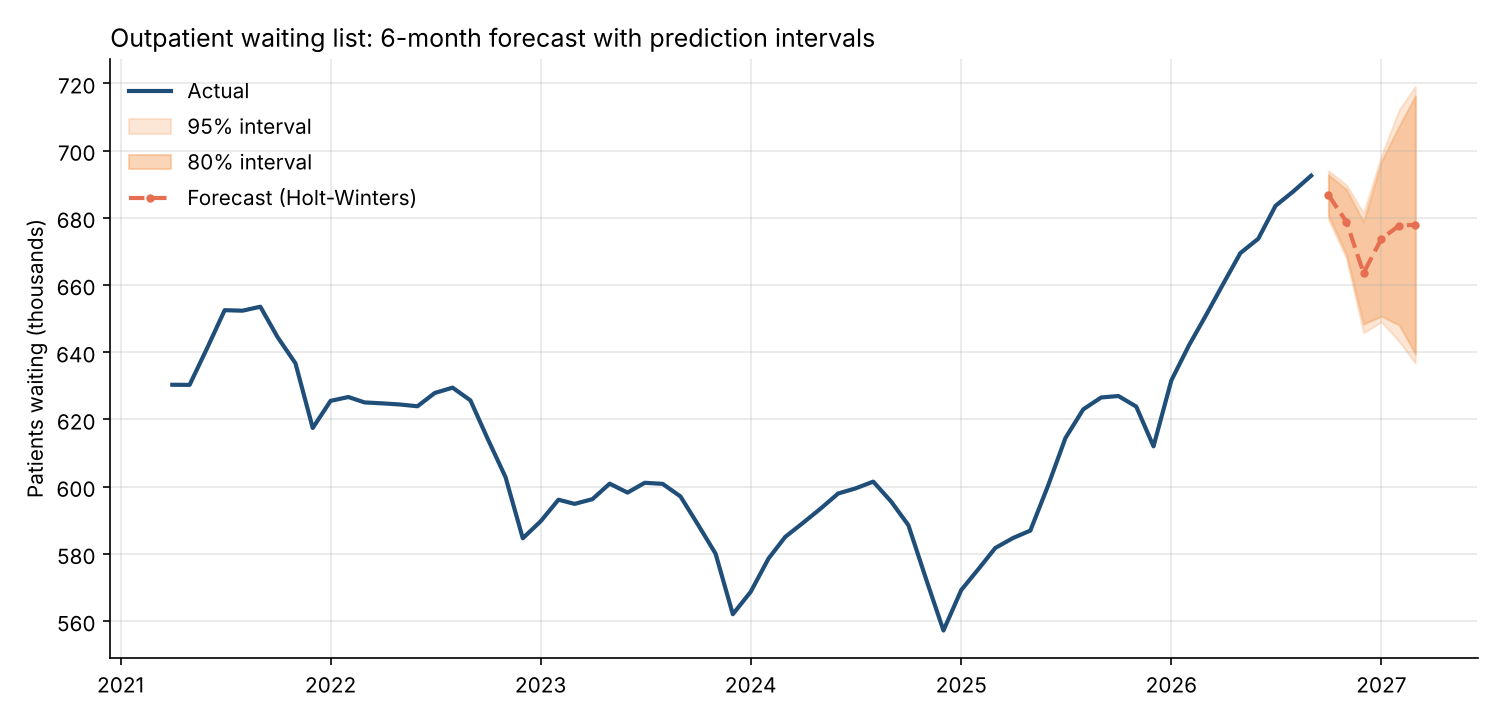
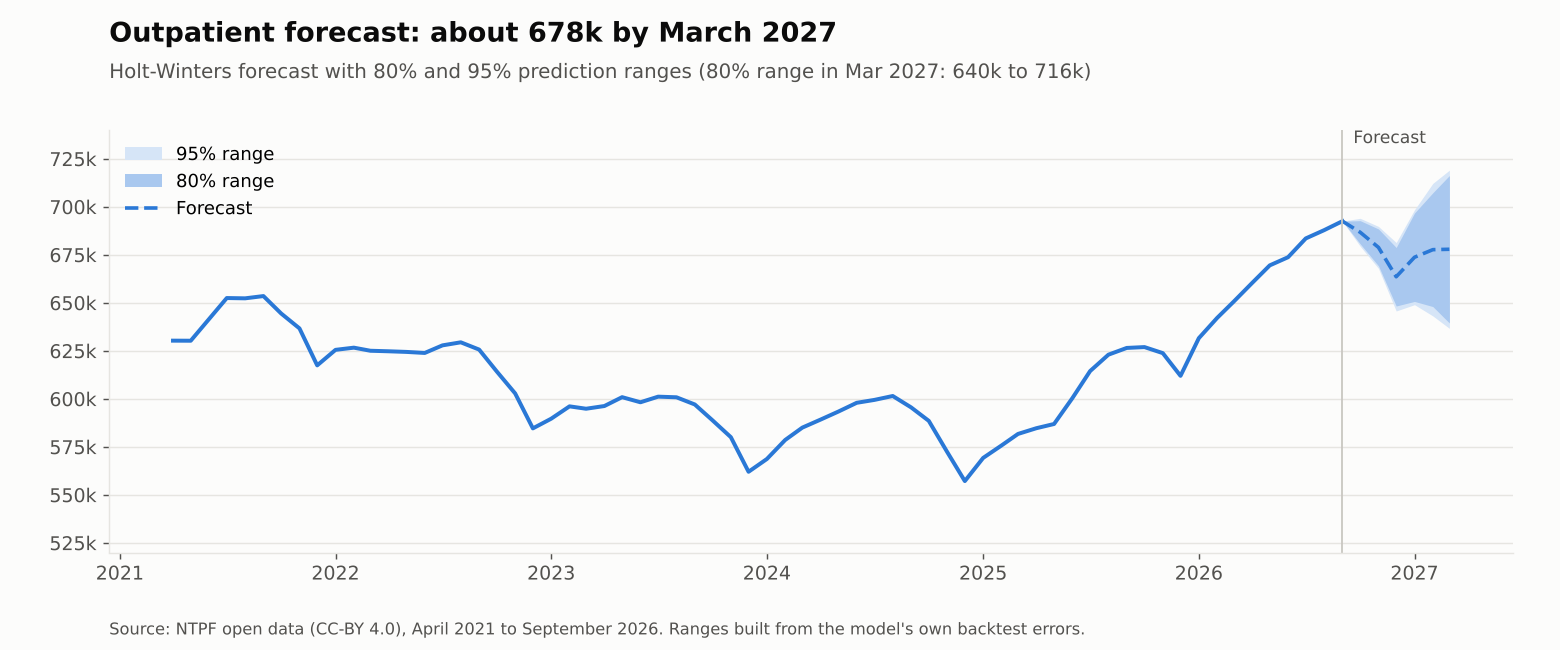
Restyle all README charts in one consistent style

diff --git a/src/charts.py b/src/charts.py
@@ -1,0 +1,130 @@
+"""Draws every chart used in the README, in one consistent style.
+
+Reads the summary tables in data/ and writes images/01-08 (except 04, the
+superseded Random Forest forecast). Run from the repository root, after
+src/forecast_and_targets.py:   python src/charts.py
+"""
+import pandas as pd
+import matplotlib.ticker as mtick
+
+from chart_style import (BLUE, BLUE_80, BLUE_95, GREY, GREY_LIGHT, INK, INK2, TARGET,
+                         new_figure, tidy, year_axis, save)
+
+nat = pd.read_csv("data/national_monthly.csv", parse_dates=["month"])
+tgt = pd.read_csv("data/target_benchmark.csv", parse_dates=["month"])
+fc = pd.read_csv("data/forecast_with_intervals.csv", parse_dates=["month"])
+mc = pd.read_csv("data/model_comparison.csv")
+spec = pd.read_csv("data/op_specialty_sep2026.csv")
+
+thousands = mtick.FuncFormatter(lambda v, _: f"{v:,.0f}k")
+last = nat.iloc[-1]
+
+# 01 Outpatient trend
+fig, ax = new_figure(f"The outpatient list is at a 5-year high: {last.op_total:,.0f}",
+                     "Patients waiting for a first outpatient appointment, April 2021 to September 2026")
+tidy(ax)
+ax.plot(nat.month, nat.op_total / 1000, color=BLUE, lw=2.2)
+low = nat.loc[nat.op_total.idxmin()]
+for row, text, dy, va in [(low, f"Low: {low.op_total:,.0f} ({low.month:%b %Y})", -14, "top"),
+                          (last, f"{last.op_total:,.0f} ({last.month:%b %Y})", 10, "bottom")]:
+    ax.scatter(row.month, row.op_total / 1000, color=BLUE, s=40, zorder=3, edgecolor="white", linewidth=1.5)
+    ax.annotate(text, (row.month, row.op_total / 1000), xytext=(0, dy), textcoords="offset points",
+                ha="center" if row is low else "right", va=va, fontsize=10, color=INK, fontweight="bold")
+ax.set_ylim(520, 720); ax.yaxis.set_major_formatter(thousands); year_axis(ax)
+save(fig, "images/01_outpatient_trend.png")
+
+# 02 Long-wait share
+op_share = (nat.op_12_18 + nat.op_18_plus) / nat.op_total * 100
+ip_share = (nat.ipdc_12_18 + nat.ipdc_18_plus) / nat.ipdc_total * 100
+fig, ax = new_figure(f"The share waiting over 12 months fell from {op_share.iloc[0]:.0f}% to {op_share.iloc[-1]:.0f}%",
+                     "% of patients waiting more than 12 months")
+tidy(ax)
+ax.plot(nat.month, op_share, color=BLUE, lw=2.2)
+ax.plot(nat.month, ip_share, color=GREY, lw=2)
+ax.text(nat.month.iloc[2], op_share.iloc[2] + 1.5, "Outpatient", color=BLUE, fontsize=10.5, fontweight="bold")
+ax.text(nat.month.iloc[2], ip_share.iloc[2] + 2.5, "Inpatient / day case", color=GREY, fontsize=10.5, fontweight="bold")
+ax.set_ylim(0, 50); ax.yaxis.set_major_formatter(mtick.PercentFormatter(decimals=0)); year_axis(ax)
+save(fig, "images/02_long_wait_share.png")
+
+# 03 Top specialties
+top = spec.head(15).iloc[::-1]
+fig, ax = new_figure("Orthopaedics has the longest list; Dermatology the most long waiters",
+                     "Top 15 outpatient specialties by patients waiting, September 2026", height=6.5)
+tidy(ax, grid_axis="x")
+ax.barh(top.specialty, top.total_sep2026 / 1000, color=GREY_LIGHT, height=0.68, label="Under 12 months")
+ax.barh(top.specialty, top.over_12m_sep2026 / 1000, color=BLUE, height=0.68, label="Over 12 months")
+for y, r in enumerate(top.itertuples()):
+    ax.text(r.total_sep2026 / 1000 + 0.8, y, f"{r.total_sep2026:,.0f}", va="center", fontsize=9.5, color=INK2)
+ax.set_xlim(0, 95); ax.xaxis.set_major_formatter(thousands)
+ax.legend(loc="lower right", fontsize=10)
+fig.subplots_adjust(left=0.2)
+save(fig, "images/03_top_specialties.png")
+
+
+# 05 / 06 Forecasts with intervals
+def forecast_chart(key, label, hist_col, path, ylim):
+    f = fc[fc.list == label]
+    hist = nat[["month", hist_col]]
+    end = f.iloc[-1]
+    fig, ax = new_figure(f"{label} forecast: about {end.forecast / 1000:,.0f}k by {end.month:%B %Y}",
+                         f"Holt-Winters forecast with 80% and 95% prediction ranges "
+                         f"(80% range in {end.month:%b %Y}: {end.lower_80 / 1000:,.0f}k to {end.upper_80 / 1000:,.0f}k)")
+    tidy(ax)
+    ax.plot(hist.month, hist[hist_col] / 1000, color=BLUE, lw=2.2)
+    xs = pd.concat([hist.month.tail(1), f.month])
+    edge = hist[hist_col].iloc[-1] / 1000
+    ax.fill_between(xs, [edge] + list(f.lower_95 / 1000), [edge] + list(f.upper_95 / 1000), color=BLUE_95, lw=0, label="95% range")
+    ax.fill_between(xs, [edge] + list(f.lower_80 / 1000), [edge] + list(f.upper_80 / 1000), color=BLUE_80, lw=0, label="80% range")
+    ax.plot(xs, [edge] + list(f.forecast / 1000), color=BLUE, lw=2, ls="--", label="Forecast")
+    ax.axvline(hist.month.iloc[-1], color=GREY_LIGHT, lw=1)
+    ax.text(hist.month.iloc[-1], ylim[1], "  Forecast", va="top", fontsize=9.5, color=INK2)
+    ax.set_ylim(*ylim); ax.yaxis.set_major_formatter(thousands); year_axis(ax)
+    ax.legend(loc="upper left", fontsize=10)
+    save(fig, path, "Ranges built from the model's own backtest errors.")
+
+
+forecast_chart("op", "Outpatient", "op_total", "images/05_op_forecast_intervals.png", (520, 740))
+forecast_chart("ipdc", "Inpatient/Day Case", "ipdc_total", "images/06_ipdc_forecast_intervals.png", (60, 140))
+
+# 07 Model comparison
+fig, axes = new_figure("Holt-Winters was the most accurate model at every horizon, for both lists",
+                       "Mean absolute % error by months ahead, rolling-origin backtest from 13 starting points", ncols=2)
+greys = {"Random Forest": "#6f6d68", "Naive": "#a3a19b", "Drift": "#c9c7c1"}
+for ax, lst in zip(axes, ["Outpatient", "Inpatient/Day Case"]):
+    tidy(ax, lst)
+    sub = mc[mc.list == lst]
+    label_y = {}
+    for r in sub.sort_values("mape_h6").itertuples():
+        ys = [getattr(r, f"mape_h{h}") for h in range(1, 7)]
+        hw = r.model == "Holt-Winters"
+        ax.plot(range(1, 7), ys, color=BLUE if hw else greys[r.model], lw=2.6 if hw else 1.6,
+                marker="o", ms=5 if hw else 3.5, zorder=3 if hw else 2)
+        y = ys[-1]
+        if label_y:  # keep end labels at least 0.38 points apart
+            y = max(y, max(label_y.values()) + 0.38)
+        label_y[r.model] = y
+        ax.text(6.12, y, r.model, va="center", fontsize=9.5,
+                color=BLUE if hw else INK2, fontweight="bold" if hw else "normal")
+    ax.set_xlim(0.8, 7.6); ax.set_xticks(range(1, 7)); ax.set_xlabel("Months ahead")
+    ax.set_ylim(0, 7.5); ax.yaxis.set_major_formatter(mtick.PercentFormatter(decimals=0))
+save(fig, "images/07_model_comparison.png")
+
+# 08 Targets
+t = tgt.iloc[-1]
+fig, axes = new_figure("Progress towards the national targets has stalled since December 2024",
+                       f"September 2026: {t.op_pct_under_12m:.0f}% of outpatients wait under 12 months (target 90%); "
+                       f"estimated average wait {t.op_weighted_avg_wait_months + 1e-6:.1f} months (target under 5.5)", ncols=2)
+panels = [("% waiting under 12 months", "op_pct_under_12m", "ipdc_pct_under_12m", 90, "90% target", (50, 100)),
+          ("Estimated average wait (months)", "op_weighted_avg_wait_months", "ipdc_weighted_avg_wait_months", 5.5,
+           "5.5-month target", (4, 13))]
+for ax, (title, op_col, ip_col, target, tlabel, ylim) in zip(axes, panels):
+    tidy(ax, title)
+    ax.plot(tgt.month, tgt[op_col], color=BLUE, lw=2.2, label="Outpatient")
+    ax.plot(tgt.month, tgt[ip_col], color=GREY, lw=2, label="Inpatient / day case")
+    ax.axhline(target, color=TARGET, lw=1.2, ls=(0, (4, 3)))
+    ax.text(tgt.month.iloc[0], target + (ylim[1] - ylim[0]) * 0.015, tlabel, fontsize=9.5, color=INK2, va="bottom")
+    ax.set_ylim(*ylim); year_axis(ax, 2)
+    if op_col.startswith("op_pct"):
+        ax.yaxis.set_major_formatter(mtick.PercentFormatter(decimals=0))
+        ax.legend(loc="lower right", fontsize=10)
+save(fig, "images/08_targets_benchmark.png", "Average wait estimated from wait-band midpoints (3, 9, 15, 24 months).")

diff --git a/src/chart_style.py b/src/chart_style.py
@@ -1,0 +1,53 @@
+"""Shared look for every chart in this project (README charts and dashboard)."""
+import matplotlib.pyplot as plt
+import matplotlib.dates as mdates
+
+BLUE = "#2a78d6"          # the one accent: the series the title is about
+BLUE_80 = "#a9c8ef"       # 80% prediction range
+BLUE_95 = "#d6e5f7"       # 95% prediction range
+GREY = "#8d8b85"          # comparison series
+GREY_LIGHT = "#c9c7c1"    # background bars / minor series
+INK, INK2 = "#0b0b0b", "#52514e"
+GRID, SURFACE = "#e6e5e1", "#fcfcfb"
+TARGET = "#52514e"        # targets and reference lines (dashed)
+
+SOURCE = "Source: NTPF open data (CC-BY 4.0), April 2021 to September 2026."
+
+plt.rcParams.update({
+    "font.family": "DejaVu Sans", "font.size": 10.5,
+    "axes.edgecolor": GRID, "axes.labelcolor": INK2, "axes.titlecolor": INK,
+    "xtick.color": INK2, "ytick.color": INK2,
+    "figure.facecolor": SURFACE, "axes.facecolor": SURFACE, "savefig.facecolor": SURFACE,
+    "legend.frameon": False,
+})
+
+
+def new_figure(title, subtitle, ncols=1, height=5.0, width=12.0):
+    """Figure with a left-aligned headline (the finding) and a grey subtitle."""
+    fig, axes = plt.subplots(1, ncols, figsize=(width, height))
+    # margins fixed in inches, so every chart has the same header and footer
+    fig.subplots_adjust(left=0.07, right=0.97, top=1 - 1.0 / height, bottom=0.75 / height, wspace=0.22)
+    fig.text(0.07, 1 - 0.32 / height, title, fontsize=15, fontweight="bold", color=INK)
+    fig.text(0.07, 1 - 0.6 / height, subtitle, fontsize=11, color=INK2)
+    return fig, axes
+
+
+def tidy(ax, panel_title=None, grid_axis="y"):
+    for side in ("top", "right"):
+        ax.spines[side].set_visible(False)
+    ax.grid(axis=grid_axis, color=GRID, lw=0.8)
+    ax.set_axisbelow(True)
+    if panel_title:
+        ax.set_title(panel_title, loc="left", fontsize=11.5, fontweight="bold", color=INK, pad=8)
+
+
+def year_axis(ax, step=1):
+    ax.xaxis.set_major_locator(mdates.YearLocator(step))
+    ax.xaxis.set_major_formatter(mdates.DateFormatter("%Y"))
+
+
+def save(fig, path, note=""):
+    fig.text(0.07, 0.12 / fig.get_figheight(), (SOURCE + " " + note).strip(), fontsize=9, color=INK2)
+    fig.savefig(path, dpi=130)
+    plt.close(fig)
+    print("saved", path)

diff --git a/src/dashboard.py b/src/dashboard.py
@@ -8,12 +8,7 @@ import matplotlib.dates as mdates
 import pandas as pd
 from matplotlib.gridspec import GridSpec
 
-BLUE, BLUE_LIGHT = "#2a78d6", "#a9c8ef"
-INK, INK2, GRID, SURFACE = "#0b0b0b", "#52514e", "#e6e5e1", "#fcfcfb"
-TARGET = "#52514e"
-plt.rcParams.update({"font.family": "DejaVu Sans", "font.size": 10,
-                     "axes.edgecolor": GRID, "axes.labelcolor": INK2,
-                     "xtick.color": INK2, "ytick.color": INK2})
+from chart_style import BLUE, BLUE_80 as BLUE_LIGHT, INK, INK2, GRID, SURFACE, TARGET  # shared look
 
 nat = pd.read_csv("data/national_monthly.csv", parse_dates=["month"])
 tgt = pd.read_csv("data/target_benchmark.csv", parse_dates=["month"])

diff --git a/README.md b/README.md
@@ -248,6 +248,8 @@ Click `notebooks/irish_waiting_list_analysis.ipynb` to see the full analysis wit
 ├── src/
 │   ├── analysis.py                   ← Full pipeline from the raw NTPF files
 │   ├── forecast_and_targets.py       ← Model comparison, prediction intervals, target benchmarking
+│   ├── chart_style.py                ← Shared colours, fonts and layout for every chart
+│   ├── charts.py                     ← Draws all README charts in one consistent style
 │   └── dashboard.py                  ← One-page dashboard (images/00_dashboard.png)
 └── README.md
 ```
@@ -268,6 +270,7 @@ The model comparison, forecast intervals and target benchmark run directly from 
 ```
 pip install pandas numpy scipy scikit-learn matplotlib
 python src/forecast_and_targets.py
+python src/charts.py
 python src/dashboard.py
 ```
 
